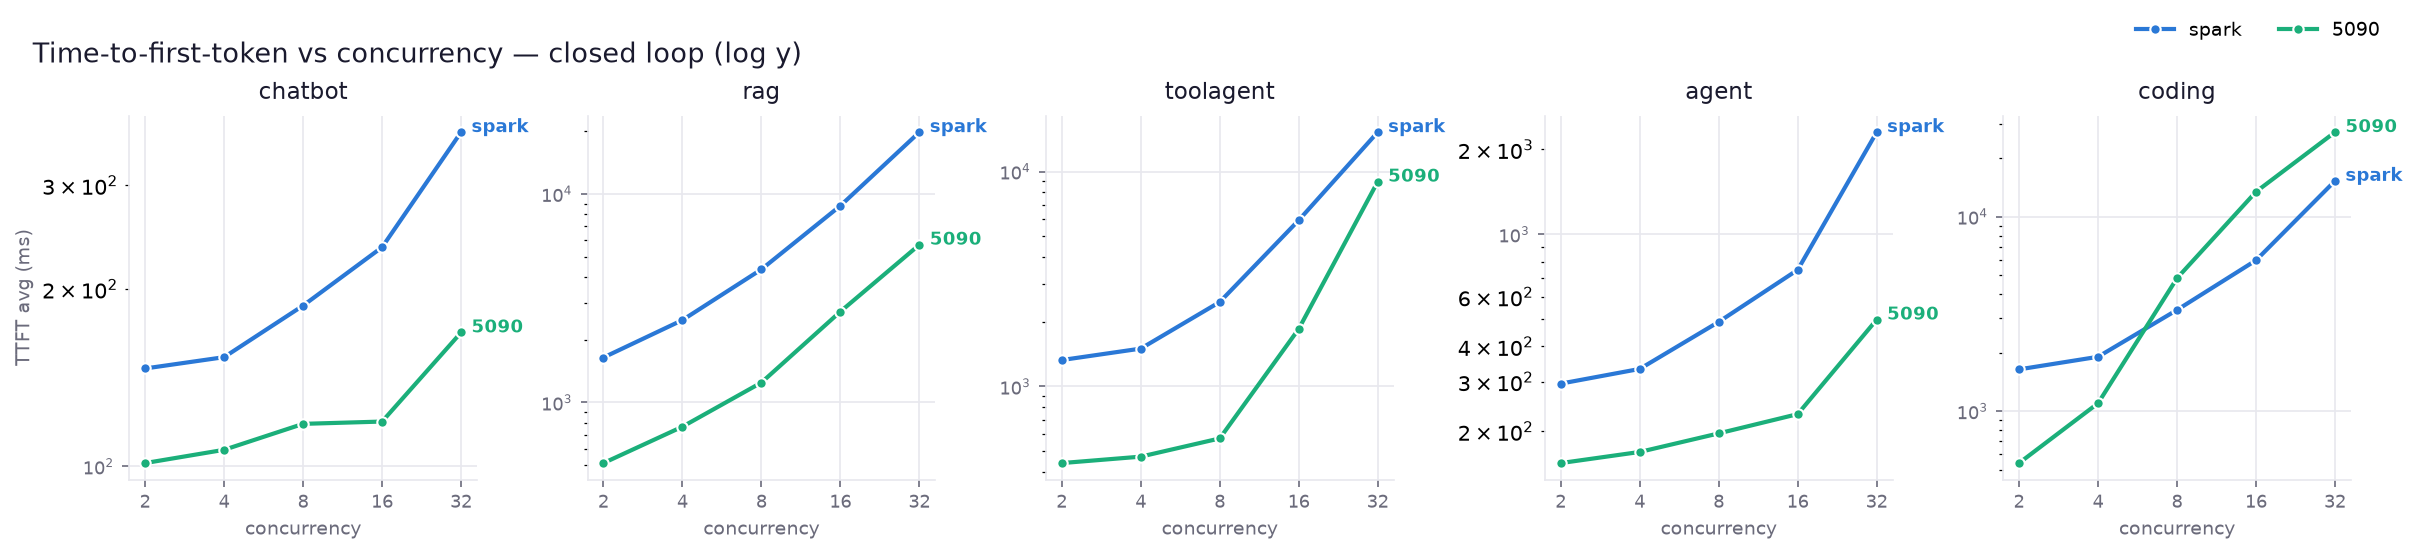
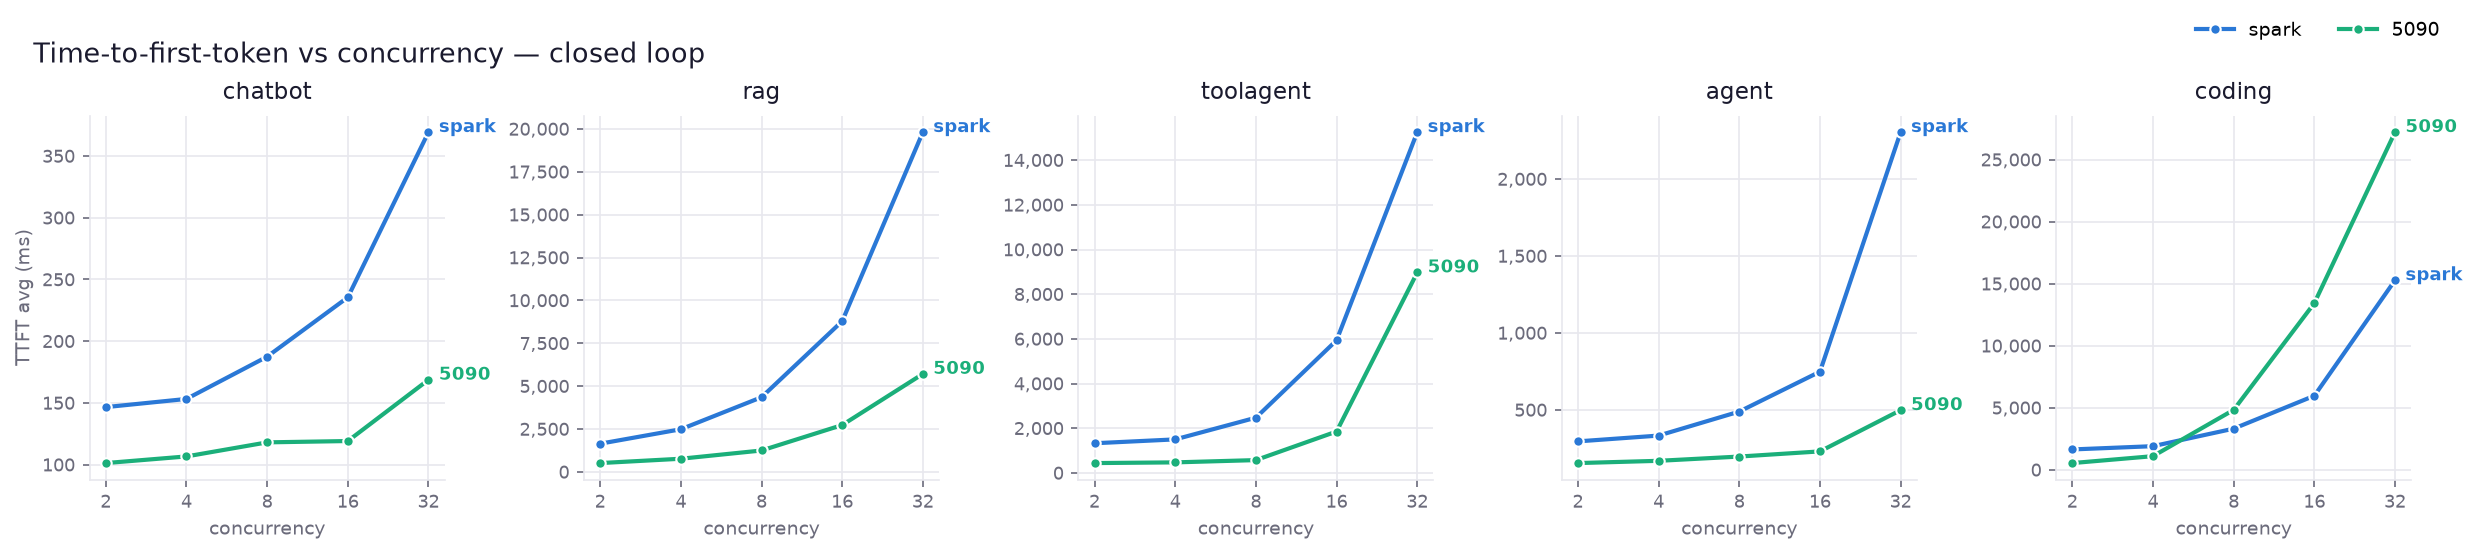
TTFT figures: linear y with plain comma-formatted numbers (no scientific notation)
Claude-Session: https://claude.ai/code/session_016bujdB1i4bAwnwpxPWwZgw

diff --git a/scripts/plot_nvfp4.py b/scripts/plot_nvfp4.py
@@ -93,6 +93,9 @@ def grid_figure(fname, xlevels, xlabel, ylabel, suptitle, get_y, logy=False, log
             ax.set_xticks(xlevels)
         if logy:
             ax.set_yscale("log")
+        else:  # plain numbers, never scientific/offset notation
+            ax.yaxis.set_major_formatter(
+                plt.FuncFormatter(lambda v, _: f"{v:,.0f}" if v >= 10 else f"{v:g}"))
         ax.set_xlabel(xlabel, fontsize=9, color=MUTED)
     axes[0].set_ylabel(ylabel, fontsize=9, color=MUTED)
     handles = [plt.Line2D([], [], color=c, linewidth=2, marker="o", markersize=5,
@@ -227,9 +230,9 @@ def main():
         logx2=True)
     grid_figure(
         "nvfp4_ttft.png", CLEVELS, "concurrency", "TTFT avg (ms)",
-        "Time-to-first-token vs concurrency — closed loop (log y)",
+        "Time-to-first-token vs concurrency — closed loop",
         lambda n, w, p: aiperf_metric(n, w, p, "Time to First Token (ms)"),
-        logy=True, logx2=True)
+        logx2=True)
     grid_figure(
         "nvfp4_rate_ttft.png", RLEVELS, "req/s offered", "TTFT avg (ms)",
         "Open-loop TTFT avg at 0.8 / 1.0 / 1.2 req/s (poisson)",
@@ -248,9 +251,9 @@ def main():
         logx2=True, wls=FLAT)
     grid_figure(
         "nvfp4_flat_ttft.png", CLEVELS, "concurrency", "TTFT avg (ms)",
-        "Flat-trace time-to-first-token vs concurrency — closed loop (log y)",
+        "Flat-trace time-to-first-token vs concurrency — closed loop",
         lambda n, w, p: aiperf_metric(n, w, p, "Time to First Token (ms)"),
-        logy=True, logx2=True, wls=FLAT)
+        logx2=True, wls=FLAT)
     flat_vs_orig("nvfp4_flat_vs_orig.png")
     coding_flat_5090("nvfp4_coding_flat_5090_reqs.png")
     rate_reqs_figure("nvfp4_rate_reqs.png")
